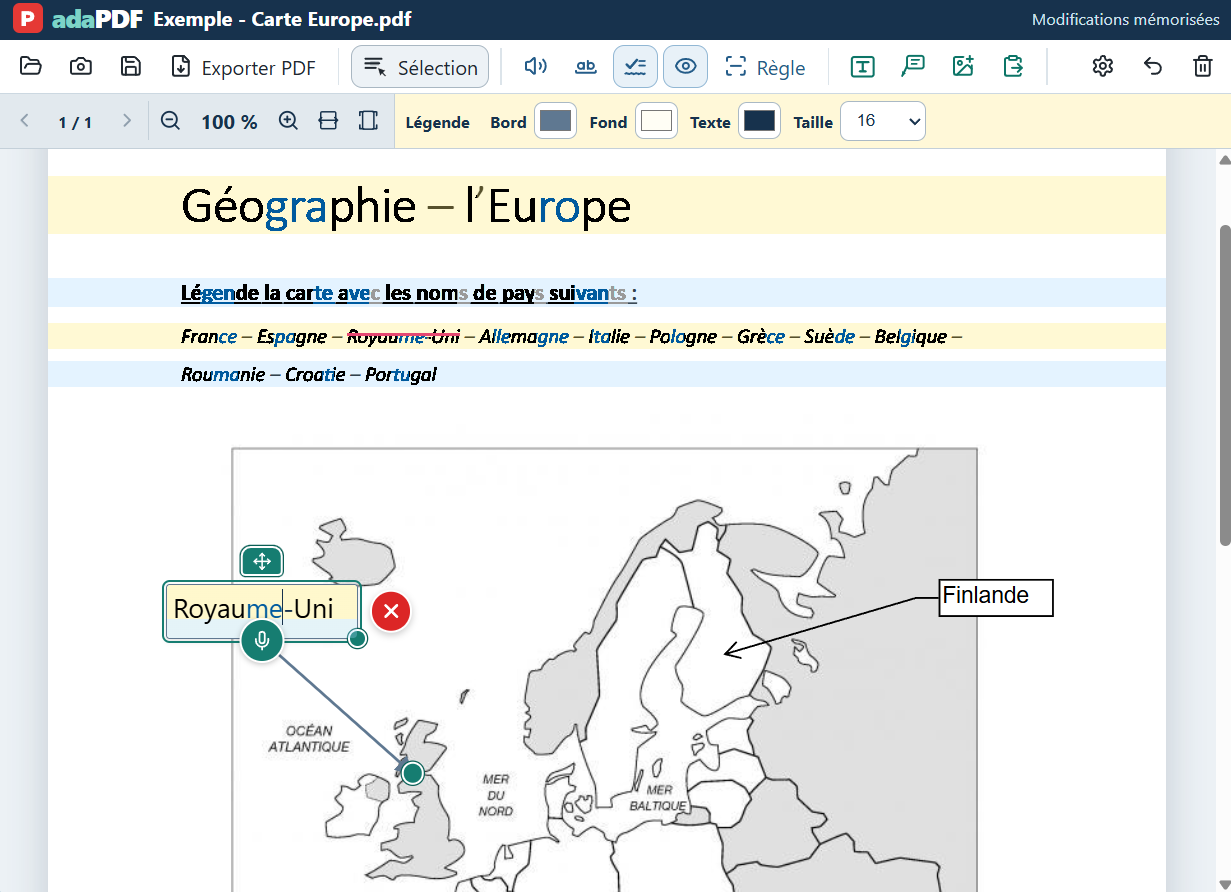
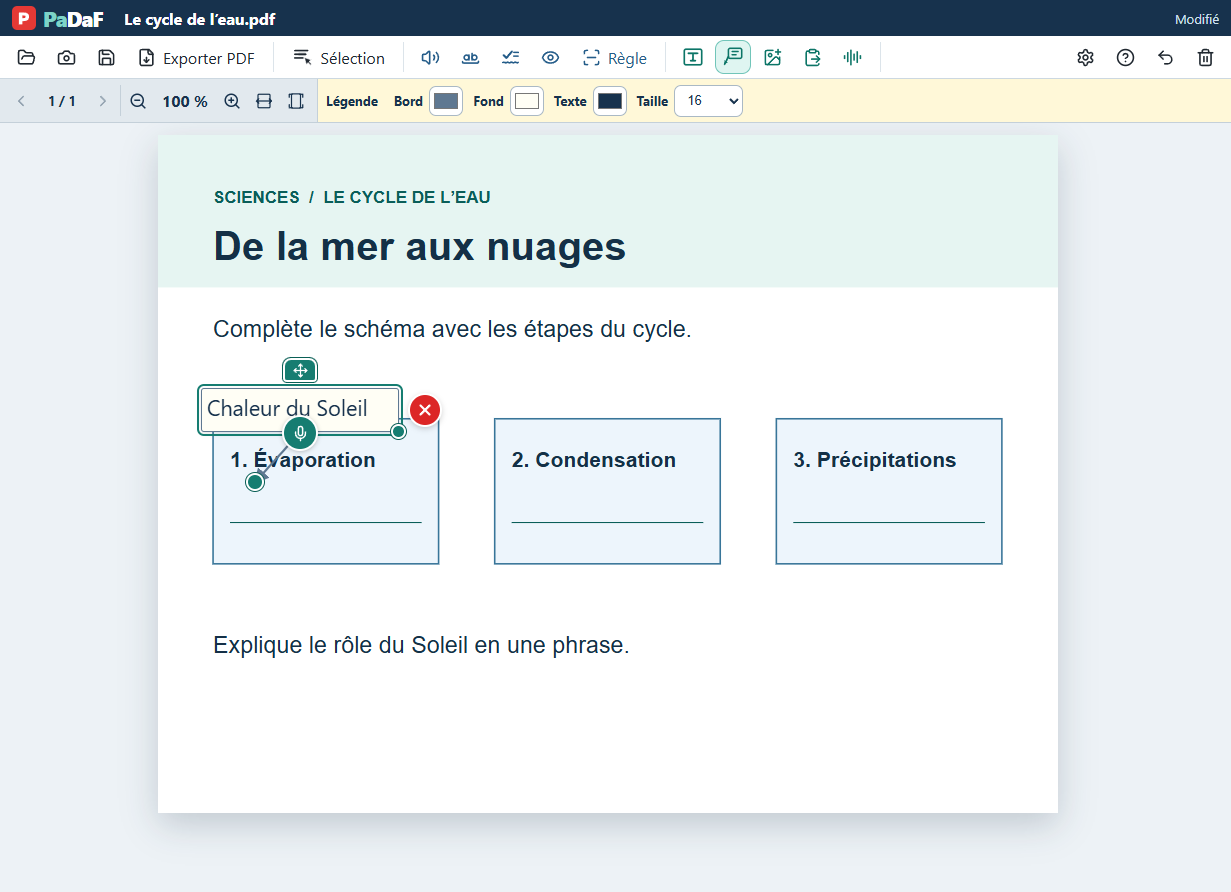
Show the current PaDaF interface in the preview

diff --git a/padaf.html b/padaf.html
@@ -54,7 +54,7 @@
                     <h2 id="apercu">Aperçu du logiciel</h2>
                     <figure class="app-preview">
                         <a href="assets/capture-padaf.png" aria-label="Voir la capture de PaDaF en grand">
-                            <img width="1231" height="892" src="assets/capture-padaf.png" alt="Interface d’PaDaF avec une carte de l’Europe, du texte adapté et des légendes modifiables." loading="lazy">
+                            <img width="1231" height="892" src="assets/capture-padaf.png" alt="Interface de PaDaF avec une fiche sur le cycle de l’eau et une légende modifiable." loading="lazy">
                         </a>
                         <figcaption>Cliquer sur la capture pour l’ouvrir en grand.</figcaption>
                     </figure>
